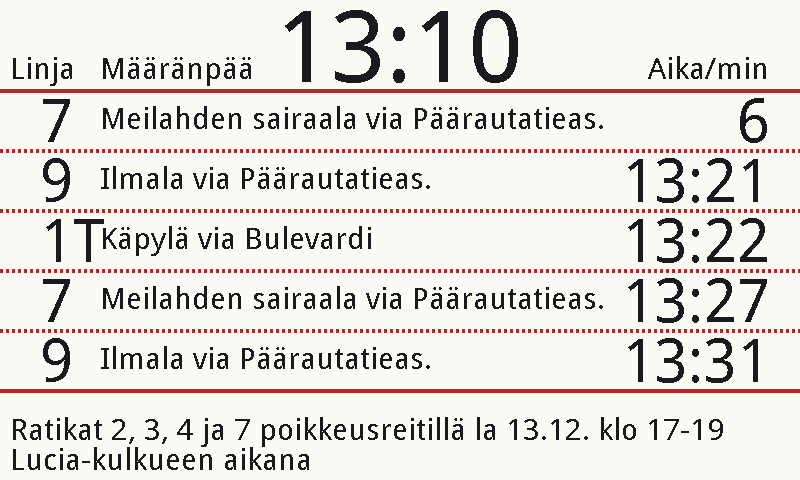
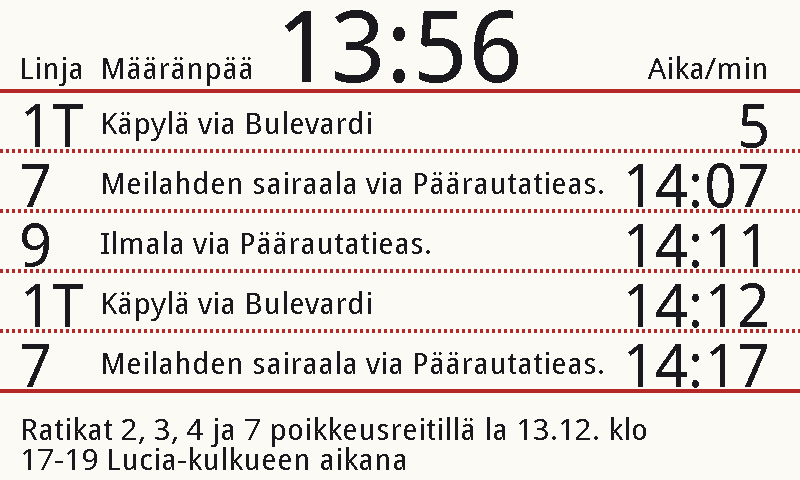
Update screenshots and fix config loading encoding

diff --git a/config.py b/config.py
@@ -184,7 +184,7 @@ class Config:
 def load_config() -> Config:
     """Load configuration from config.json."""
     if os.path.exists(CONFIG_FILE):
-        with open(CONFIG_FILE, 'r') as f:
+        with open(CONFIG_FILE, 'r', encoding='utf-8-sig') as f:
             data = json.load(f)
             return Config.from_dict(data)
     
@@ -205,7 +205,7 @@ def load_config() -> Config:
 
 def save_config(config: Config):
     """Save configuration to config.json."""
-    with open(CONFIG_FILE, 'w') as f:
+    with open(CONFIG_FILE, 'w', encoding='utf-8') as f:
         json.dump(config.to_dict(), f, indent=2)
 
 

diff --git a/README.md b/README.md
@@ -23,12 +23,8 @@ The project consists of two main components:
 *Real-time departure view generated for the 7.5" E-Ink Display*
 
 ### Web Configuration UI
-![Web Dashboard](screenshots/web-ui-dashboard.png)
-*Modern dashboard for managing stops and settings*
-
-### Visual Layout Editor
-![Layout Editor](screenshots/web-ui-layout.png)
-*Drag-and-drop layout editor for customizing the display*
+![Web Dashboard](screenshots/webui.png)
+*Modern dashboard for managing stops, layout, and settings*
 
 ## Hardware Requirements
 